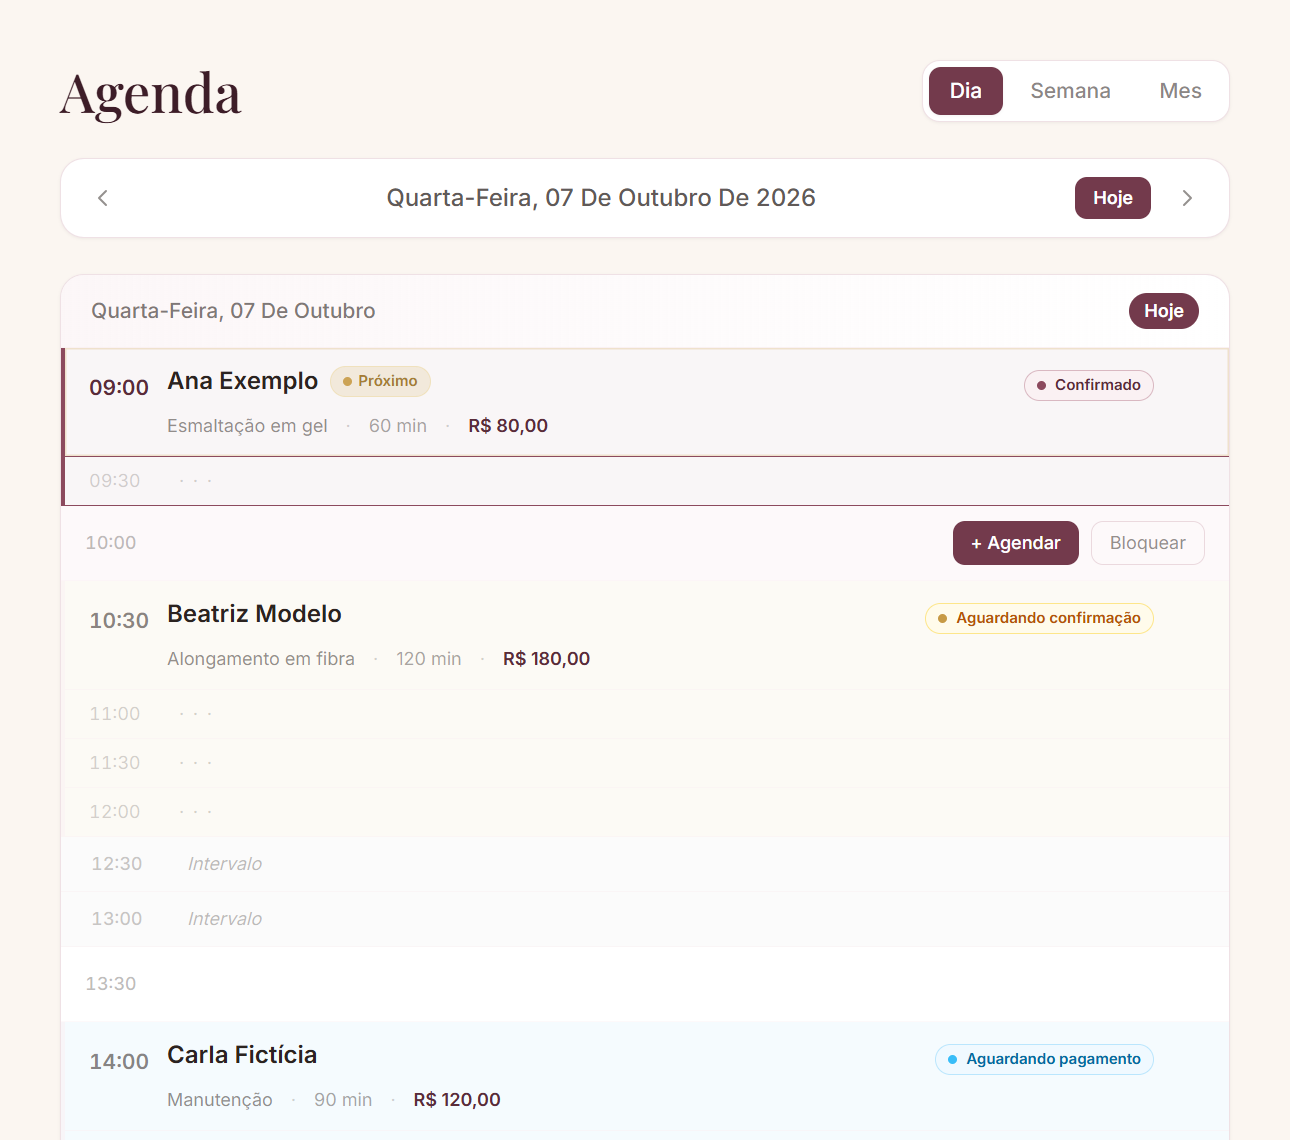
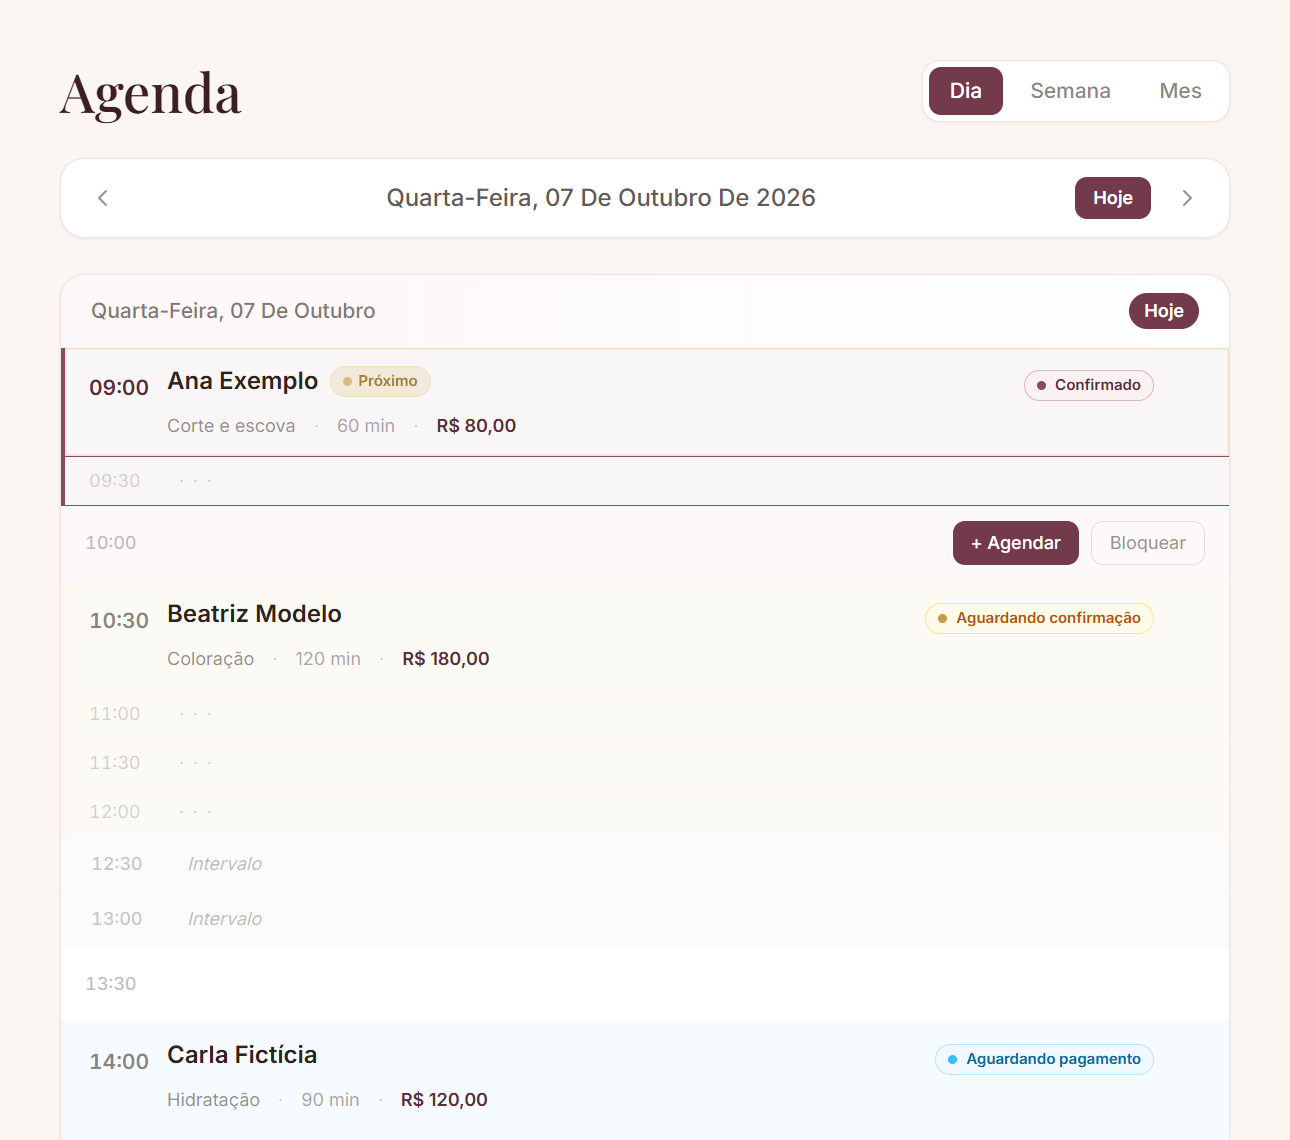
fix: use broader beauty wording
Replace nail-specific copy, examples and guide screenshots with
beauty-wide wording.

diff --git a/frontend/src/content/guiaRapido.ts b/frontend/src/content/guiaRapido.ts
@@ -70,7 +70,7 @@ export const GUIA_PASSOS: GuiaPasso[] = [
     resumo: 'Leva só um minutinho: você precisa de um e-mail e de uma senha.',
     itens: [
       `No celular ou no computador, abra o NailFlow no navegador: **${ENDERECO_NAILFLOW}**. Na tela de entrada, clique em **Criar conta** (logo abaixo do botão Entrar).`,
-      'Escreva o **Nome do negócio**, por exemplo: Studio Camila Nails.',
+      'Escreva o **Nome do negócio**, por exemplo: Studio Camila Beleza.',
       'Confira o **Link da sua página pública**. Ele é sugerido a partir do nome do negócio; use só letras minúsculas, números e hífens (mínimo de 3 caracteres).',
       'Informe seu **E-mail** e crie uma **Senha** com pelo menos 8 caracteres.',
       'Clique em **Criar conta**. Em seguida você volta para a tela de entrada: digite o mesmo e-mail e a mesma senha e clique em **Entrar**.',
@@ -113,9 +113,9 @@ export const GUIA_PASSOS: GuiaPasso[] = [
     resumo: 'Cadastre o que você oferece para a agenda saber quanto tempo cada atendimento leva e quanto custa.',
     itens: [
       'No menu, abra **Serviços** e clique em **+ Novo serviço**.',
-      'Escreva o **Nome**, por exemplo: Esmaltação em gel, Alongamento em fibra ou Manutenção.',
+      'Escreva o **Nome**, por exemplo: Corte e escova, Coloração ou Design de sobrancelhas.',
       'Se quiser, acrescente uma **Descrição** curta.',
-      'Informe o **Preço** e a **Duração (min)**. Exemplo: 120 minutos para um alongamento.',
+      'Informe o **Preço** e a **Duração (min)**. Exemplo: 120 minutos para uma coloração.',
       'Deixe **Serviço ativo** ligado para ele poder ser agendado.',
       '**Aparece no WhatsApp** define se o serviço é oferecido às clientes na sua página de agendamento (e no WhatsApp, se você conectá-lo). Desligado, ele fica como **Somente Agenda**: só você consegue agendá-lo.',
       'Clique em **Salvar**.',
@@ -137,7 +137,7 @@ export const GUIA_PASSOS: GuiaPasso[] = [
     itens: [
       'No menu, abra **Clientes** e clique em **+ Nova cliente**.',
       'Preencha o **Nome** e o **Telefone** (código do país + DDD + número, sem espaços). Exemplo: 5531912345678.',
-      'Em **Observações** (opcional), anote o que vale lembrar: alergias, preferências de cor, formato das unhas.',
+      'Em **Observações** (opcional), anote o que vale lembrar: alergias, preferências e cuidados especiais.',
       'Clique em **Cadastrar**.',
       'Para encontrar uma cliente depois, use a busca **Buscar por nome ou telefone…** ou os filtros **Todas**, **Novas**, **Recorrentes** e **Inativas** (sem atendimento há 60 dias ou mais).',
     ],

diff --git a/frontend/src/pages/Register.tsx b/frontend/src/pages/Register.tsx
@@ -80,7 +80,7 @@ export default function Register() {
           <div>
             <p className="font-display text-4xl text-cream tracking-tight mb-3">NailFlow</p>
             <p className="text-wine-100/55 text-sm max-w-[200px] leading-relaxed">
-              Agenda profissional para quem transforma unhas em arte.
+              Agenda profissional para quem transforma beleza em experiências.
             </p>
           </div>
         </div>
@@ -116,7 +116,7 @@ export default function Register() {
                 value={businessName}
                 onChange={(e) => setBusinessName(e.target.value)}
                 className="input"
-                placeholder="Ex: Studio Camila Nails"
+                placeholder="Ex: Studio Camila Beleza"
                 autoComplete="organization"
               />
             </div>
@@ -137,7 +137,7 @@ export default function Register() {
                     setSlugEdited(true);
                   }}
                   className="flex-1 py-2.5 pr-3 text-sm bg-transparent outline-none text-ink placeholder:text-ink/30"
-                  placeholder="studio-camila-nails"
+                  placeholder="studio-camila-beleza"
                   autoComplete="off"
                   spellCheck={false}
                 />

diff --git a/frontend/src/pages/Login.tsx b/frontend/src/pages/Login.tsx
@@ -40,7 +40,7 @@ export default function Login() {
           <div>
             <p className="font-display text-4xl text-cream tracking-tight mb-3">NailFlow</p>
             <p className="text-wine-100/55 text-sm max-w-[200px] leading-relaxed">
-              Agenda profissional para quem transforma unhas em arte.
+              Agenda profissional para quem transforma beleza em experiências.
             </p>
           </div>
         </div>
